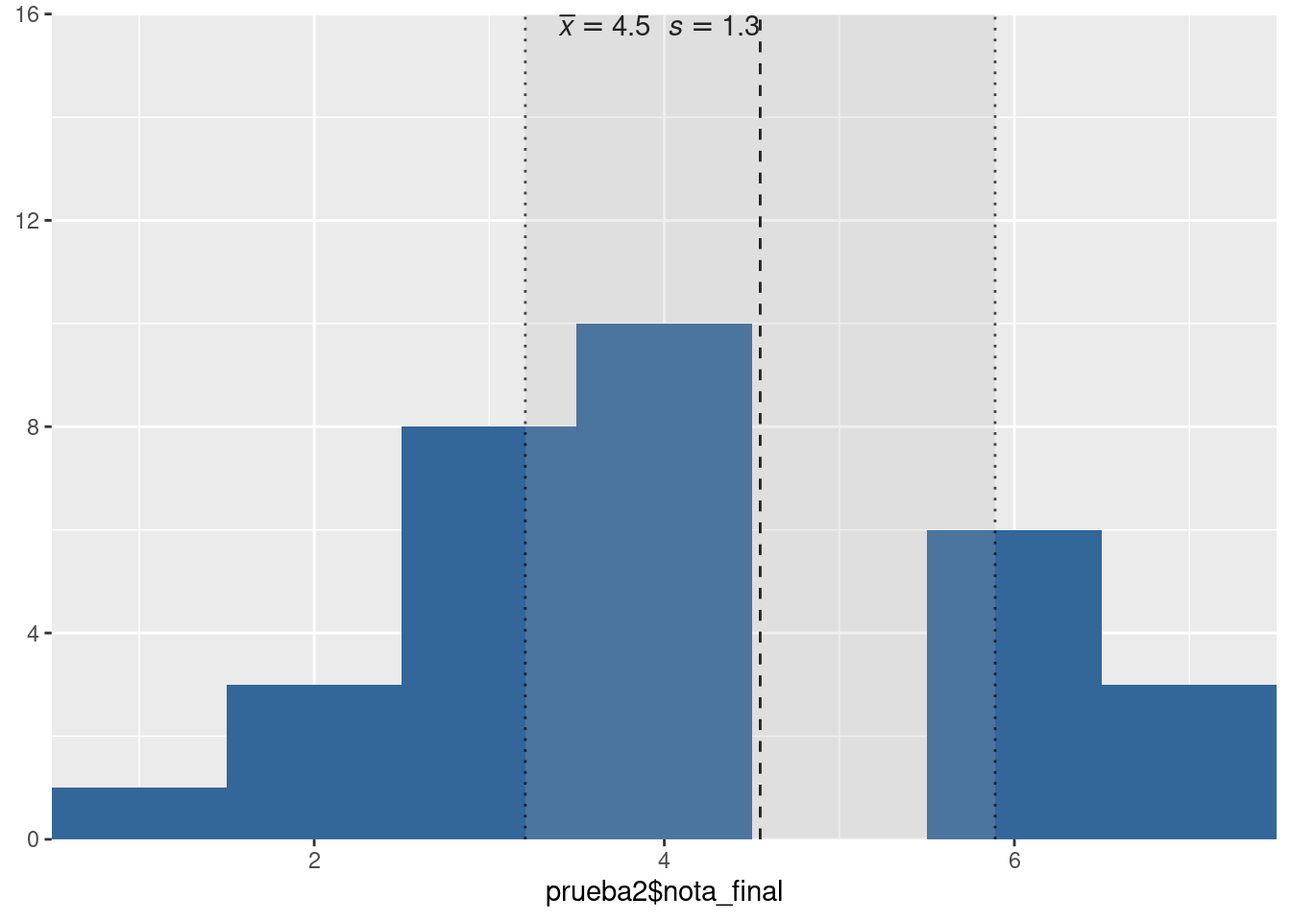
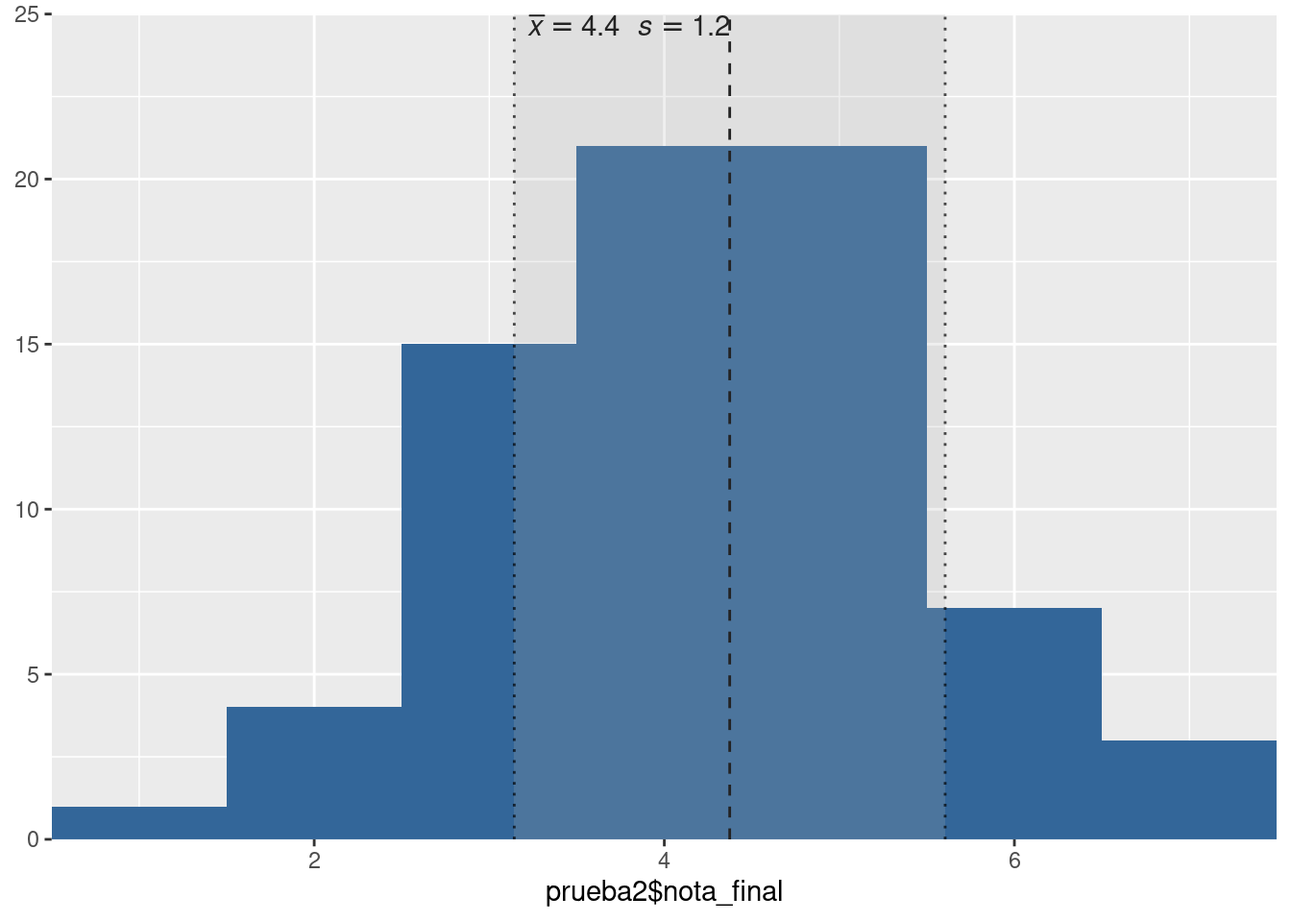
actualización report notas

diff --git a/docs/files/reporte_notas/reporte_notas.html b/docs/files/reporte_notas/reporte_notas.html
@@ -361,15 +361,15 @@ pre > code.sourceCode > span > a:first-child::before { text-decoration: underlin
 <span id="cb8-3"><a href="#cb8-3" aria-hidden="true" tabindex="-1"></a><span class="fu">frq</span>(prueba1<span class="sc">$</span>notas_cat)</span></code><button title="Copiar al portapapeles" class="code-copy-button"><i class="bi"></i></button></pre></div>
 <div class="cell-output cell-output-stdout">
 <pre><code>x &lt;categorical&gt; 
-# total N=89 valid N=79 mean=2.23 sd=1.13
+# total N=88 valid N=79 mean=2.23 sd=1.13
 
 Value       |  N | Raw % | Valid % | Cum. %
 -------------------------------------------
-Menor a 4.0 | 30 | 33.71 |   37.97 |  37.97
-4.0-5.0     | 14 | 15.73 |   17.72 |  55.70
-5.0-6.0     | 22 | 24.72 |   27.85 |  83.54
-6.0-7.0     | 13 | 14.61 |   16.46 | 100.00
-&lt;NA&gt;        | 10 | 11.24 |    &lt;NA&gt; |   &lt;NA&gt;</code></pre>
+Menor a 4.0 | 30 | 34.09 |   37.97 |  37.97
+4.0-5.0     | 14 | 15.91 |   17.72 |  55.70
+5.0-6.0     | 22 | 25.00 |   27.85 |  83.54
+6.0-7.0     | 13 | 14.77 |   16.46 | 100.00
+&lt;NA&gt;        |  9 | 10.23 |    &lt;NA&gt; |   &lt;NA&gt;</code></pre>
 </div>
 <div class="sourceCode cell-code" id="cb10"><pre class="sourceCode r code-with-copy"><code class="sourceCode r"><span id="cb10-1"><a href="#cb10-1" aria-hidden="true" tabindex="-1"></a>prueba1 <span class="ot">&lt;-</span> prueba1 <span class="sc">%&gt;%</span> dplyr<span class="sc">::</span><span class="fu">select</span>(<span class="sc">-</span>notas_cat)</span></code><button title="Copiar al portapapeles" class="code-copy-button"><i class="bi"></i></button></pre></div>
 </div>
@@ -507,23 +507,23 @@ alpha: 0.634</code></pre>
 <div class="sourceCode cell-code" id="cb16"><pre class="sourceCode r code-with-copy"><code class="sourceCode r"><span id="cb16-1"><a href="#cb16-1" aria-hidden="true" tabindex="-1"></a><span class="fu">frq</span>(prueba2<span class="sc">$</span>forma)</span></code><button title="Copiar al portapapeles" class="code-copy-button"><i class="bi"></i></button></pre></div>
 <div class="cell-output cell-output-stdout">
 <pre><code>x &lt;character&gt; 
-# total N=87 valid N=48 mean=1.54 sd=0.50
+# total N=87 valid N=72 mean=1.50 sd=0.50
 
 Value |  N | Raw % | Valid % | Cum. %
 -------------------------------------
-A     | 22 | 25.29 |   45.83 |  45.83
-B     | 26 | 29.89 |   54.17 | 100.00
-&lt;NA&gt;  | 39 | 44.83 |    &lt;NA&gt; |   &lt;NA&gt;</code></pre>
+A     | 36 | 41.38 |      50 |     50
+B     | 36 | 41.38 |      50 |    100
+&lt;NA&gt;  | 15 | 17.24 |    &lt;NA&gt; |   &lt;NA&gt;</code></pre>
 </div>
 <div class="sourceCode cell-code" id="cb18"><pre class="sourceCode r code-with-copy"><code class="sourceCode r"><span id="cb18-1"><a href="#cb18-1" aria-hidden="true" tabindex="-1"></a>A <span class="ot">&lt;-</span> <span class="fu">subset</span>(prueba2, <span class="at">subset =</span> prueba2<span class="sc">$</span>forma<span class="sc">==</span><span class="st">"A"</span>)</span>
 <span id="cb18-2"><a href="#cb18-2" aria-hidden="true" tabindex="-1"></a>B <span class="ot">&lt;-</span> <span class="fu">subset</span>(prueba2, <span class="at">subset =</span> prueba2<span class="sc">$</span>forma<span class="sc">==</span><span class="st">"B"</span>)</span>
 <span id="cb18-3"><a href="#cb18-3" aria-hidden="true" tabindex="-1"></a><span class="fu">dim</span>(A)</span></code><button title="Copiar al portapapeles" class="code-copy-button"><i class="bi"></i></button></pre></div>
 <div class="cell-output cell-output-stdout">
-<pre><code>[1] 22  8</code></pre>
+<pre><code>[1] 36  8</code></pre>
 </div>
 <div class="sourceCode cell-code" id="cb20"><pre class="sourceCode r code-with-copy"><code class="sourceCode r"><span id="cb20-1"><a href="#cb20-1" aria-hidden="true" tabindex="-1"></a><span class="fu">dim</span>(B)</span></code><button title="Copiar al portapapeles" class="code-copy-button"><i class="bi"></i></button></pre></div>
 <div class="cell-output cell-output-stdout">
-<pre><code>[1] 26  8</code></pre>
+<pre><code>[1] 36  8</code></pre>
 </div>
 <div class="sourceCode cell-code" id="cb22"><pre class="sourceCode r code-with-copy"><code class="sourceCode r"><span id="cb22-1"><a href="#cb22-1" aria-hidden="true" tabindex="-1"></a><span class="fu">descr</span>(B, <span class="at">show =</span> <span class="st">"mean"</span>)</span></code><button title="Copiar al portapapeles" class="code-copy-button"><i class="bi"></i></button></pre></div>
 <div class="cell-output cell-output-stdout">
@@ -531,13 +531,13 @@ B     | 26 | 29.89 |   54.17 | 100.00
 ## Basic descriptive statistics
 
         var mean
-        p1a 1.29
-        p1b 1.40
-        p1c 1.35
-        p2a 1.37
-        p2b 1.46
-        p2c 1.44
- nota_final 4.78</code></pre>
+        p1a 1.33
+        p1b 1.36
+        p1c 1.31
+        p2a 1.39
+        p2b 1.28
+        p2c 1.32
+ nota_final 4.58</code></pre>
 </div>
 <div class="sourceCode cell-code" id="cb24"><pre class="sourceCode r code-with-copy"><code class="sourceCode r"><span id="cb24-1"><a href="#cb24-1" aria-hidden="true" tabindex="-1"></a>B <span class="ot">&lt;-</span> B <span class="sc">%&gt;%</span> <span class="fu">rename</span>(<span class="st">"p1a"</span><span class="ot">=</span><span class="st">"p2a"</span>, </span>
 <span id="cb24-2"><a href="#cb24-2" aria-hidden="true" tabindex="-1"></a>                  <span class="st">"p1b"</span><span class="ot">=</span><span class="st">"p2b"</span>,</span>
@@ -552,13 +552,13 @@ B     | 26 | 29.89 |   54.17 | 100.00
 ## Basic descriptive statistics
 
         var mean
-        p2a 1.29
-        p2b 1.40
-        p2c 1.35
-        p1a 1.37
-        p1b 1.46
-        p1c 1.44
- nota_final 4.78</code></pre>
+        p2a 1.33
+        p2b 1.36
+        p2c 1.31
+        p1a 1.39
+        p1b 1.28
+        p1c 1.32
+ nota_final 4.58</code></pre>
 </div>
 <div class="sourceCode cell-code" id="cb26"><pre class="sourceCode r code-with-copy"><code class="sourceCode r"><span id="cb26-1"><a href="#cb26-1" aria-hidden="true" tabindex="-1"></a>prueba2 <span class="ot">&lt;-</span> <span class="fu">rbind</span>(A,B)</span></code><button title="Copiar al portapapeles" class="code-copy-button"><i class="bi"></i></button></pre></div>
 </div>
@@ -613,35 +613,35 @@ B     | 26 | 29.89 |   54.17 | 100.00
 <td style="text-align: left;">2</td>
 <td style="text-align: left;">p1a</td>
 <td style="text-align: left;">H1 promedio direccional</td>
-<td style="text-align: right;">48</td>
-<td style="text-align: right;">1.33</td>
-<td style="text-align: right;">0.64</td>
+<td style="text-align: right;">72</td>
+<td style="text-align: right;">1.36</td>
+<td style="text-align: right;">0.63</td>
 <td style="text-align: left;">2 (0-2)</td>
 </tr>
 <tr class="even">
 <td style="text-align: left;">3</td>
 <td style="text-align: left;">p1b</td>
 <td style="text-align: left;">Prueba promedios</td>
-<td style="text-align: right;">48</td>
-<td style="text-align: right;">1.32</td>
-<td style="text-align: right;">0.82</td>
+<td style="text-align: right;">72</td>
+<td style="text-align: right;">1.24</td>
+<td style="text-align: right;">0.86</td>
 <td style="text-align: left;">2 (0-2)</td>
 </tr>
 <tr class="odd">
 <td style="text-align: left;">4</td>
 <td style="text-align: left;">p1c</td>
 <td style="text-align: left;">Rechazo H0</td>
-<td style="text-align: right;">48</td>
-<td style="text-align: right;">1.29</td>
-<td style="text-align: right;">0.76</td>
+<td style="text-align: right;">72</td>
+<td style="text-align: right;">1.27</td>
+<td style="text-align: right;">0.70</td>
 <td style="text-align: left;">2 (0-2)</td>
 </tr>
 <tr class="even">
 <td style="text-align: left;">5</td>
 <td style="text-align: left;">p2a</td>
 <td style="text-align: left;">H1 proporcion no direccional</td>
-<td style="text-align: right;">48</td>
-<td style="text-align: right;">1.29</td>
+<td style="text-align: right;">72</td>
+<td style="text-align: right;">1.26</td>
 <td style="text-align: right;">0.68</td>
 <td style="text-align: left;">2 (0-2)</td>
 </tr>
@@ -649,27 +649,27 @@ B     | 26 | 29.89 |   54.17 | 100.00
 <td style="text-align: left;">6</td>
 <td style="text-align: left;">p2b</td>
 <td style="text-align: left;">Error tipo 1</td>
-<td style="text-align: right;">48</td>
-<td style="text-align: right;">1.32</td>
-<td style="text-align: right;">0.78</td>
+<td style="text-align: right;">72</td>
+<td style="text-align: right;">1.27</td>
+<td style="text-align: right;">0.79</td>
 <td style="text-align: left;">2 (0-2)</td>
 </tr>
 <tr class="even">
 <td style="text-align: left;">7</td>
 <td style="text-align: left;">p2c</td>
 <td style="text-align: left;">Intervalo confianza</td>
-<td style="text-align: right;">48</td>
-<td style="text-align: right;">1.25</td>
-<td style="text-align: right;">0.69</td>
+<td style="text-align: right;">72</td>
+<td style="text-align: right;">1.14</td>
+<td style="text-align: right;">0.72</td>
 <td style="text-align: left;">2 (0-2)</td>
 </tr>
 <tr class="odd">
 <td style="text-align: left;">1</td>
 <td style="text-align: left;">nota_final</td>
 <td style="text-align: left;">nota_final</td>
-<td style="text-align: right;">48</td>
-<td style="text-align: right;">4.55</td>
-<td style="text-align: right;">1.34</td>
+<td style="text-align: right;">72</td>
+<td style="text-align: right;">4.37</td>
+<td style="text-align: right;">1.23</td>
 <td style="text-align: left;">5.6 (1.4-7)</td>
 </tr>
 </tbody>
@@ -684,32 +684,36 @@ B     | 26 | 29.89 |   54.17 | 100.00
 <div class="cell-output-display">
 <p><img src="reporte_notas_files/figure-html/unnamed-chunk-16-1.png" class="img-fluid" width="672"></p>
 </div>
+<div class="sourceCode cell-code" id="cb30"><pre class="sourceCode r code-with-copy"><code class="sourceCode r"><span id="cb30-1"><a href="#cb30-1" aria-hidden="true" tabindex="-1"></a><span class="fu">plot_frq</span>(<span class="at">data =</span> prueba2<span class="sc">$</span>nota_final,<span class="at">type =</span> <span class="st">"hist"</span>,<span class="at">show.mean =</span> T)</span></code><button title="Copiar al portapapeles" class="code-copy-button"><i class="bi"></i></button></pre></div>
+<div class="cell-output-display">
+<p><img src="reporte_notas_files/figure-html/unnamed-chunk-16-2.png" class="img-fluid" width="672"></p>
+</div>
 </div>
 <div class="cell">
-<div class="sourceCode cell-code" id="cb30"><pre class="sourceCode r code-with-copy"><code class="sourceCode r"><span id="cb30-1"><a href="#cb30-1" aria-hidden="true" tabindex="-1"></a>prueba2 <span class="ot">&lt;-</span> prueba2 <span class="sc">%&gt;%</span>  <span class="fu">mutate</span>(<span class="at">notas_cat=</span><span class="fu">cut</span>(nota_final, <span class="at">breaks=</span><span class="fu">c</span>(<span class="sc">-</span><span class="cn">Inf</span>,<span class="dv">4</span>,<span class="dv">5</span>,<span class="dv">6</span>, <span class="cn">Inf</span>), <span class="at">labels=</span><span class="fu">c</span>(<span class="st">"Menor a 4.0"</span>,<span class="st">"4.0-5.0"</span>,<span class="st">"5.0-6.0"</span>,<span class="st">"6.0-7.0"</span>)))</span>
-<span id="cb30-2"><a href="#cb30-2" aria-hidden="true" tabindex="-1"></a></span>
-<span id="cb30-3"><a href="#cb30-3" aria-hidden="true" tabindex="-1"></a><span class="fu">frq</span>(prueba2<span class="sc">$</span>notas_cat)</span></code><button title="Copiar al portapapeles" class="code-copy-button"><i class="bi"></i></button></pre></div>
+<div class="sourceCode cell-code" id="cb31"><pre class="sourceCode r code-with-copy"><code class="sourceCode r"><span id="cb31-1"><a href="#cb31-1" aria-hidden="true" tabindex="-1"></a>prueba2 <span class="ot">&lt;-</span> prueba2 <span class="sc">%&gt;%</span>  <span class="fu">mutate</span>(<span class="at">notas_cat=</span><span class="fu">cut</span>(nota_final, <span class="at">breaks=</span><span class="fu">c</span>(<span class="sc">-</span><span class="cn">Inf</span>,<span class="dv">4</span>,<span class="dv">5</span>,<span class="dv">6</span>, <span class="cn">Inf</span>), <span class="at">labels=</span><span class="fu">c</span>(<span class="st">"Menor a 4.0"</span>,<span class="st">"4.0-5.0"</span>,<span class="st">"5.0-6.0"</span>,<span class="st">"6.0-7.0"</span>)))</span>
+<span id="cb31-2"><a href="#cb31-2" aria-hidden="true" tabindex="-1"></a></span>
+<span id="cb31-3"><a href="#cb31-3" aria-hidden="true" tabindex="-1"></a><span class="fu">frq</span>(prueba2<span class="sc">$</span>notas_cat)</span></code><button title="Copiar al portapapeles" class="code-copy-button"><i class="bi"></i></button></pre></div>
 <div class="cell-output cell-output-stdout">
 <pre><code>x &lt;categorical&gt; 
-# total N=48 valid N=48 mean=2.23 sd=1.06
+# total N=72 valid N=72 mean=2.06 sd=1.02
 
 Value       |  N | Raw % | Valid % | Cum. %
 -------------------------------------------
-Menor a 4.0 | 16 | 33.33 |   33.33 |  33.33
-4.0-5.0     | 11 | 22.92 |   22.92 |  56.25
-5.0-6.0     | 15 | 31.25 |   31.25 |  87.50
-6.0-7.0     |  6 | 12.50 |   12.50 | 100.00
+Menor a 4.0 | 28 | 38.89 |   38.89 |  38.89
+4.0-5.0     | 19 | 26.39 |   26.39 |  65.28
+5.0-6.0     | 18 | 25.00 |   25.00 |  90.28
+6.0-7.0     |  7 |  9.72 |    9.72 | 100.00
 &lt;NA&gt;        |  0 |  0.00 |    &lt;NA&gt; |   &lt;NA&gt;</code></pre>
 </div>
-<div class="sourceCode cell-code" id="cb32"><pre class="sourceCode r code-with-copy"><code class="sourceCode r"><span id="cb32-1"><a href="#cb32-1" aria-hidden="true" tabindex="-1"></a>prueba2 <span class="ot">&lt;-</span> prueba2 <span class="sc">%&gt;%</span> dplyr<span class="sc">::</span><span class="fu">select</span>(<span class="sc">-</span>notas_cat)</span></code><button title="Copiar al portapapeles" class="code-copy-button"><i class="bi"></i></button></pre></div>
+<div class="sourceCode cell-code" id="cb33"><pre class="sourceCode r code-with-copy"><code class="sourceCode r"><span id="cb33-1"><a href="#cb33-1" aria-hidden="true" tabindex="-1"></a>prueba2 <span class="ot">&lt;-</span> prueba2 <span class="sc">%&gt;%</span> dplyr<span class="sc">::</span><span class="fu">select</span>(<span class="sc">-</span>notas_cat)</span></code><button title="Copiar al portapapeles" class="code-copy-button"><i class="bi"></i></button></pre></div>
 </div>
 </section>
 <section id="preguntas-y-asociaciones-1" class="level2">
 <h2 class="anchored" data-anchor-id="preguntas-y-asociaciones-1">Preguntas y asociaciones</h2>
 <div class="cell">
-<div class="sourceCode cell-code" id="cb33"><pre class="sourceCode r code-with-copy"><code class="sourceCode r"><span id="cb33-1"><a href="#cb33-1" aria-hidden="true" tabindex="-1"></a>prueba2 <span class="ot">&lt;-</span> prueba2 <span class="sc">%&gt;%</span> dplyr<span class="sc">::</span><span class="fu">select</span>(<span class="sc">-</span>forma)</span>
-<span id="cb33-2"><a href="#cb33-2" aria-hidden="true" tabindex="-1"></a><span class="fu">tab_corr</span>(prueba2,</span>
-<span id="cb33-3"><a href="#cb33-3" aria-hidden="true" tabindex="-1"></a>         <span class="at">triangle =</span> <span class="st">"lower"</span>)</span></code><button title="Copiar al portapapeles" class="code-copy-button"><i class="bi"></i></button></pre></div>
+<div class="sourceCode cell-code" id="cb34"><pre class="sourceCode r code-with-copy"><code class="sourceCode r"><span id="cb34-1"><a href="#cb34-1" aria-hidden="true" tabindex="-1"></a>prueba2 <span class="ot">&lt;-</span> prueba2 <span class="sc">%&gt;%</span> dplyr<span class="sc">::</span><span class="fu">select</span>(<span class="sc">-</span>forma)</span>
+<span id="cb34-2"><a href="#cb34-2" aria-hidden="true" tabindex="-1"></a><span class="fu">tab_corr</span>(prueba2,</span>
+<span id="cb34-3"><a href="#cb34-3" aria-hidden="true" tabindex="-1"></a>         <span class="at">triangle =</span> <span class="st">"lower"</span>)</span></code><button title="Copiar al portapapeles" class="code-copy-button"><i class="bi"></i></button></pre></div>
 <div class="cell-output-display">
 <table data-quarto-postprocess="true" class="table table-sm table-striped small">
 <tbody>
@@ -735,7 +739,7 @@ Menor a 4.0 | 16 | 33.33 |   33.33 |  33.33
 </tr>
 <tr class="odd">
 <td style="font-style: italic">Prueba promedios</td>
-<td style="text-align: center; padding: 0.2cm;">0.307<span style="vertical-align:super;font-size:0.8em;">*</span></td>
+<td style="text-align: center; padding: 0.2cm;">0.295<span style="vertical-align:super;font-size:0.8em;">*</span></td>
 <td style="text-align: center; padding: 0.2cm;">&nbsp;</td>
 <td style="text-align: center; padding: 0.2cm;">&nbsp;</td>
 <td style="text-align: center; padding: 0.2cm;">&nbsp;</td>
@@ -745,8 +749,8 @@ Menor a 4.0 | 16 | 33.33 |   33.33 |  33.33
 </tr>
 <tr class="even">
 <td style="font-style: italic">Rechazo H0</td>
-<td style="text-align: center; padding: 0.2cm;">0.477<span style="vertical-align:super;font-size:0.8em;">***</span></td>
-<td style="text-align: center; padding: 0.2cm;">0.530<span style="vertical-align:super;font-size:0.8em;">***</span></td>
+<td style="text-align: center; padding: 0.2cm;">0.397<span style="vertical-align:super;font-size:0.8em;">***</span></td>
+<td style="text-align: center; padding: 0.2cm;">0.488<span style="vertical-align:super;font-size:0.8em;">***</span></td>
 <td style="text-align: center; padding: 0.2cm;">&nbsp;</td>
 <td style="text-align: center; padding: 0.2cm;">&nbsp;</td>
 <td style="text-align: center; padding: 0.2cm;">&nbsp;</td>
@@ -755,9 +759,9 @@ Menor a 4.0 | 16 | 33.33 |   33.33 |  33.33
 </tr>
 <tr class="odd">
 <td style="font-style: italic">H1 proporcion no direccional</td>
-<td style="text-align: center; padding: 0.2cm; color: #999999;">0.077<span style="vertical-align:super;font-size:0.8em;"></span></td>
-<td style="text-align: center; padding: 0.2cm; color: #999999;">0.208<span style="vertical-align:super;font-size:0.8em;"></span></td>
-<td style="text-align: center; padding: 0.2cm; color: #999999;">0.048<span style="vertical-align:super;font-size:0.8em;"></span></td>
+<td style="text-align: center; padding: 0.2cm; color: #999999;">0.108<span style="vertical-align:super;font-size:0.8em;"></span></td>
+<td style="text-align: center; padding: 0.2cm; color: #999999;">0.094<span style="vertical-align:super;font-size:0.8em;"></span></td>
+<td style="text-align: center; padding: 0.2cm; color: #999999;">-0.060<span style="vertical-align:super;font-size:0.8em;"></span></td>
 <td style="text-align: center; padding: 0.2cm;">&nbsp;</td>
 <td style="text-align: center; padding: 0.2cm;">&nbsp;</td>
 <td style="text-align: center; padding: 0.2cm;">&nbsp;</td>
@@ -765,32 +769,32 @@ Menor a 4.0 | 16 | 33.33 |   33.33 |  33.33
 </tr>
 <tr class="even">
 <td style="font-style: italic">Error tipo 1</td>
-<td style="text-align: center; padding: 0.2cm; color: #999999;">0.025<span style="vertical-align:super;font-size:0.8em;"></span></td>
-<td style="text-align: center; padding: 0.2cm; color: #999999;">0.175<span style="vertical-align:super;font-size:0.8em;"></span></td>
-<td style="text-align: center; padding: 0.2cm; color: #999999;">0.099<span style="vertical-align:super;font-size:0.8em;"></span></td>
-<td style="text-align: center; padding: 0.2cm; color: #999999;">0.009<span style="vertical-align:super;font-size:0.8em;"></span></td>
+<td style="text-align: center; padding: 0.2cm; color: #999999;">-0.204<span style="vertical-align:super;font-size:0.8em;"></span></td>
+<td style="text-align: center; padding: 0.2cm; color: #999999;">0.039<span style="vertical-align:super;font-size:0.8em;"></span></td>
+<td style="text-align: center; padding: 0.2cm; color: #999999;">0.031<span style="vertical-align:super;font-size:0.8em;"></span></td>
+<td style="text-align: center; padding: 0.2cm; color: #999999;">-0.039<span style="vertical-align:super;font-size:0.8em;"></span></td>
 <td style="text-align: center; padding: 0.2cm;">&nbsp;</td>
 <td style="text-align: center; padding: 0.2cm;">&nbsp;</td>
 <td style="text-align: center; padding: 0.2cm;">&nbsp;</td>
 </tr>
 <tr class="odd">
 <td style="font-style: italic">Intervalo confianza</td>
-<td style="text-align: center; padding: 0.2cm; color: #999999;">0.102<span style="vertical-align:super;font-size:0.8em;"></span></td>
-<td style="text-align: center; padding: 0.2cm; color: #999999;">0.261<span style="vertical-align:super;font-size:0.8em;"></span></td>
-<td style="text-align: center; padding: 0.2cm;">0.361<span style="vertical-align:super;font-size:0.8em;">*</span></td>
-<td style="text-align: center; padding: 0.2cm; color: #999999;">0.245<span style="vertical-align:super;font-size:0.8em;"></span></td>
-<td style="text-align: center; padding: 0.2cm;">0.328<span style="vertical-align:super;font-size:0.8em;">*</span></td>
+<td style="text-align: center; padding: 0.2cm; color: #999999;">0.047<span style="vertical-align:super;font-size:0.8em;"></span></td>
+<td style="text-align: center; padding: 0.2cm; color: #999999;">0.206<span style="vertical-align:super;font-size:0.8em;"></span></td>
+<td style="text-align: center; padding: 0.2cm;">0.308<span style="vertical-align:super;font-size:0.8em;">**</span></td>
+<td style="text-align: center; padding: 0.2cm; color: #999999;">0.169<span style="vertical-align:super;font-size:0.8em;"></span></td>
+<td style="text-align: center; padding: 0.2cm;">0.351<span style="vertical-align:super;font-size:0.8em;">**</span></td>
 <td style="text-align: center; padding: 0.2cm;">&nbsp;</td>
 <td style="text-align: center; padding: 0.2cm;">&nbsp;</td>
 </tr>
 <tr class="even">
 <td style="font-style: italic">nota_final</td>
-<td style="text-align: center; padding: 0.2cm;">0.548<span style="vertical-align:super;font-size:0.8em;">***</span></td>
-<td style="text-align: center; padding: 0.2cm;">0.712<span style="vertical-align:super;font-size:0.8em;">***</span></td>
-<td style="text-align: center; padding: 0.2cm;">0.706<span style="vertical-align:super;font-size:0.8em;">***</span></td>
-<td style="text-align: center; padding: 0.2cm;">0.435<span style="vertical-align:super;font-size:0.8em;">**</span></td>
-<td style="text-align: center; padding: 0.2cm;">0.489<span style="vertical-align:super;font-size:0.8em;">***</span></td>
-<td style="text-align: center; padding: 0.2cm;">0.619<span style="vertical-align:super;font-size:0.8em;">***</span></td>
+<td style="text-align: center; padding: 0.2cm;">0.469<span style="vertical-align:super;font-size:0.8em;">***</span></td>
+<td style="text-align: center; padding: 0.2cm;">0.677<span style="vertical-align:super;font-size:0.8em;">***</span></td>
+<td style="text-align: center; padding: 0.2cm;">0.650<span style="vertical-align:super;font-size:0.8em;">***</span></td>
+<td style="text-align: center; padding: 0.2cm;">0.370<span style="vertical-align:super;font-size:0.8em;">**</span></td>
+<td style="text-align: center; padding: 0.2cm;">0.404<span style="vertical-align:super;font-size:0.8em;">***</span></td>
+<td style="text-align: center; padding: 0.2cm;">0.631<span style="vertical-align:super;font-size:0.8em;">***</span></td>
 <td style="text-align: center; padding: 0.2cm;">&nbsp;</td>
 </tr>
 <tr class="odd">
@@ -802,17 +806,17 @@ Menor a 4.0 | 16 | 33.33 |   33.33 |  33.33
 </div>
 <p><strong>Consistencia interna</strong></p>
 <div class="cell">
-<div class="sourceCode cell-code" id="cb34"><pre class="sourceCode r code-with-copy"><code class="sourceCode r"><span id="cb34-1"><a href="#cb34-1" aria-hidden="true" tabindex="-1"></a>pacman<span class="sc">::</span><span class="fu">p_load</span>(ltm)</span>
-<span id="cb34-2"><a href="#cb34-2" aria-hidden="true" tabindex="-1"></a></span>
-<span id="cb34-3"><a href="#cb34-3" aria-hidden="true" tabindex="-1"></a>preguntas <span class="ot">&lt;-</span> prueba2 <span class="sc">%&gt;%</span> dplyr<span class="sc">::</span><span class="fu">select</span>(<span class="sc">-</span>nota_final)</span>
-<span id="cb34-4"><a href="#cb34-4" aria-hidden="true" tabindex="-1"></a><span class="fu">cronbach.alpha</span>(<span class="fu">na.omit</span>(preguntas))</span></code><button title="Copiar al portapapeles" class="code-copy-button"><i class="bi"></i></button></pre></div>
+<div class="sourceCode cell-code" id="cb35"><pre class="sourceCode r code-with-copy"><code class="sourceCode r"><span id="cb35-1"><a href="#cb35-1" aria-hidden="true" tabindex="-1"></a>pacman<span class="sc">::</span><span class="fu">p_load</span>(ltm)</span>
+<span id="cb35-2"><a href="#cb35-2" aria-hidden="true" tabindex="-1"></a></span>
+<span id="cb35-3"><a href="#cb35-3" aria-hidden="true" tabindex="-1"></a>preguntas <span class="ot">&lt;-</span> prueba2 <span class="sc">%&gt;%</span> dplyr<span class="sc">::</span><span class="fu">select</span>(<span class="sc">-</span>nota_final)</span>
+<span id="cb35-4"><a href="#cb35-4" aria-hidden="true" tabindex="-1"></a><span class="fu">cronbach.alpha</span>(<span class="fu">na.omit</span>(preguntas))</span></code><button title="Copiar al portapapeles" class="code-copy-button"><i class="bi"></i></button></pre></div>
 <div class="cell-output cell-output-stdout">
 <pre><code>
 Cronbach's alpha for the 'na.omit(preguntas)' data-set
 
 Items: 6
-Sample units: 48
-alpha: 0.628</code></pre>
+Sample units: 72
+alpha: 0.513</code></pre>
 </div>
 </div>
 </section>
@@ -820,25 +824,25 @@ alpha: 0.628</code></pre>
 <section id="pruebas-1-2" class="level1">
 <h1>Pruebas 1 &amp; 2</h1>
 <div class="cell">
-<div class="sourceCode cell-code" id="cb36"><pre class="sourceCode r code-with-copy"><code class="sourceCode r"><span id="cb36-1"><a href="#cb36-1" aria-hidden="true" tabindex="-1"></a><span class="co"># rescatar ID secuencial</span></span>
-<span id="cb36-2"><a href="#cb36-2" aria-hidden="true" tabindex="-1"></a></span>
-<span id="cb36-3"><a href="#cb36-3" aria-hidden="true" tabindex="-1"></a>prueba1 <span class="ot">&lt;-</span> <span class="fu">read_sheet</span>(<span class="st">'https://docs.google.com/spreadsheets/d/1ahL6yZpDRUmFFnilWHqMKchNqzVzAo7YZiA401crxGA/edit?usp=sharing'</span>, <span class="at">sheet =</span> <span class="st">"Prueba 1 2023-10-10"</span>)</span>
-<span id="cb36-4"><a href="#cb36-4" aria-hidden="true" tabindex="-1"></a></span>
-<span id="cb36-5"><a href="#cb36-5" aria-hidden="true" tabindex="-1"></a>prueba2 <span class="ot">&lt;-</span> <span class="fu">read_sheet</span>(<span class="st">'https://docs.google.com/spreadsheets/d/1lnZ7ojc3jxAMTFwC5Y_Wble08YaONTNTaPdz7KnDOXI/edit#gid=1600039458'</span>, <span class="at">sheet =</span><span class="st">"Prueba 2 2023-11-19"</span>)</span>
-<span id="cb36-6"><a href="#cb36-6" aria-hidden="true" tabindex="-1"></a></span>
-<span id="cb36-7"><a href="#cb36-7" aria-hidden="true" tabindex="-1"></a>prueba1 <span class="ot">&lt;-</span> prueba1 <span class="sc">%&gt;%</span> dplyr<span class="sc">::</span><span class="fu">select</span>(RUT,Nota) <span class="sc">%&gt;%</span>  <span class="fu">rename</span>(<span class="st">"Nota_p1"</span><span class="ot">=</span><span class="st">"Nota"</span>) </span>
-<span id="cb36-8"><a href="#cb36-8" aria-hidden="true" tabindex="-1"></a>prueba2 <span class="ot">&lt;-</span> prueba2 <span class="sc">%&gt;%</span> dplyr<span class="sc">::</span><span class="fu">select</span>(RUT,Nota) <span class="sc">%&gt;%</span> <span class="fu">rename</span>(<span class="st">"Nota_p2"</span><span class="ot">=</span><span class="st">"Nota"</span>) </span>
-<span id="cb36-9"><a href="#cb36-9" aria-hidden="true" tabindex="-1"></a></span>
-<span id="cb36-10"><a href="#cb36-10" aria-hidden="true" tabindex="-1"></a>pruebas <span class="ot">&lt;-</span> <span class="fu">merge</span>(prueba1, prueba2, <span class="at">by =</span> <span class="st">'RUT'</span>)</span>
-<span id="cb36-11"><a href="#cb36-11" aria-hidden="true" tabindex="-1"></a></span>
-<span id="cb36-12"><a href="#cb36-12" aria-hidden="true" tabindex="-1"></a><span class="fu">plot_scatter</span>(pruebas, Nota_p1, Nota_p2)</span></code><button title="Copiar al portapapeles" class="code-copy-button"><i class="bi"></i></button></pre></div>
+<div class="sourceCode cell-code" id="cb37"><pre class="sourceCode r code-with-copy"><code class="sourceCode r"><span id="cb37-1"><a href="#cb37-1" aria-hidden="true" tabindex="-1"></a><span class="co"># rescatar ID secuencial</span></span>
+<span id="cb37-2"><a href="#cb37-2" aria-hidden="true" tabindex="-1"></a></span>
+<span id="cb37-3"><a href="#cb37-3" aria-hidden="true" tabindex="-1"></a>prueba1 <span class="ot">&lt;-</span> <span class="fu">read_sheet</span>(<span class="st">'https://docs.google.com/spreadsheets/d/1ahL6yZpDRUmFFnilWHqMKchNqzVzAo7YZiA401crxGA/edit?usp=sharing'</span>, <span class="at">sheet =</span> <span class="st">"Prueba 1 2023-10-10"</span>)</span>
+<span id="cb37-4"><a href="#cb37-4" aria-hidden="true" tabindex="-1"></a></span>
+<span id="cb37-5"><a href="#cb37-5" aria-hidden="true" tabindex="-1"></a>prueba2 <span class="ot">&lt;-</span> <span class="fu">read_sheet</span>(<span class="st">'https://docs.google.com/spreadsheets/d/1lnZ7ojc3jxAMTFwC5Y_Wble08YaONTNTaPdz7KnDOXI/edit#gid=1600039458'</span>, <span class="at">sheet =</span><span class="st">"Prueba 2 2023-11-19"</span>)</span>
+<span id="cb37-6"><a href="#cb37-6" aria-hidden="true" tabindex="-1"></a></span>
+<span id="cb37-7"><a href="#cb37-7" aria-hidden="true" tabindex="-1"></a>prueba1 <span class="ot">&lt;-</span> prueba1 <span class="sc">%&gt;%</span> dplyr<span class="sc">::</span><span class="fu">select</span>(RUT,Nota) <span class="sc">%&gt;%</span>  <span class="fu">rename</span>(<span class="st">"Nota_p1"</span><span class="ot">=</span><span class="st">"Nota"</span>) </span>
+<span id="cb37-8"><a href="#cb37-8" aria-hidden="true" tabindex="-1"></a>prueba2 <span class="ot">&lt;-</span> prueba2 <span class="sc">%&gt;%</span> dplyr<span class="sc">::</span><span class="fu">select</span>(RUT,Nota) <span class="sc">%&gt;%</span> <span class="fu">rename</span>(<span class="st">"Nota_p2"</span><span class="ot">=</span><span class="st">"Nota"</span>) </span>
+<span id="cb37-9"><a href="#cb37-9" aria-hidden="true" tabindex="-1"></a></span>
+<span id="cb37-10"><a href="#cb37-10" aria-hidden="true" tabindex="-1"></a>pruebas <span class="ot">&lt;-</span> <span class="fu">merge</span>(prueba1, prueba2, <span class="at">by =</span> <span class="st">'RUT'</span>)</span>
+<span id="cb37-11"><a href="#cb37-11" aria-hidden="true" tabindex="-1"></a></span>
+<span id="cb37-12"><a href="#cb37-12" aria-hidden="true" tabindex="-1"></a><span class="fu">plot_scatter</span>(pruebas, Nota_p1, Nota_p2)</span></code><button title="Copiar al portapapeles" class="code-copy-button"><i class="bi"></i></button></pre></div>
 <div class="cell-output-display">
 <p><img src="reporte_notas_files/figure-html/unnamed-chunk-20-1.png" class="img-fluid" width="672"></p>
 </div>
-<div class="sourceCode cell-code" id="cb37"><pre class="sourceCode r code-with-copy"><code class="sourceCode r"><span id="cb37-1"><a href="#cb37-1" aria-hidden="true" tabindex="-1"></a>pruebas_c <span class="ot">&lt;-</span><span class="fu">na.omit</span>(pruebas)</span>
-<span id="cb37-2"><a href="#cb37-2" aria-hidden="true" tabindex="-1"></a><span class="fu">cor</span>(pruebas_c<span class="sc">$</span>Nota_p1, pruebas_c<span class="sc">$</span>Nota_p2)</span></code><button title="Copiar al portapapeles" class="code-copy-button"><i class="bi"></i></button></pre></div>
+<div class="sourceCode cell-code" id="cb38"><pre class="sourceCode r code-with-copy"><code class="sourceCode r"><span id="cb38-1"><a href="#cb38-1" aria-hidden="true" tabindex="-1"></a>pruebas_c <span class="ot">&lt;-</span><span class="fu">na.omit</span>(pruebas)</span>
+<span id="cb38-2"><a href="#cb38-2" aria-hidden="true" tabindex="-1"></a><span class="fu">cor</span>(pruebas_c<span class="sc">$</span>Nota_p1, pruebas_c<span class="sc">$</span>Nota_p2)</span></code><button title="Copiar al portapapeles" class="code-copy-button"><i class="bi"></i></button></pre></div>
 <div class="cell-output cell-output-stdout">
-<pre><code>[1] 0.2586201</code></pre>
+<pre><code>[1] 0.2952938</code></pre>
 </div>
 </div>
 
